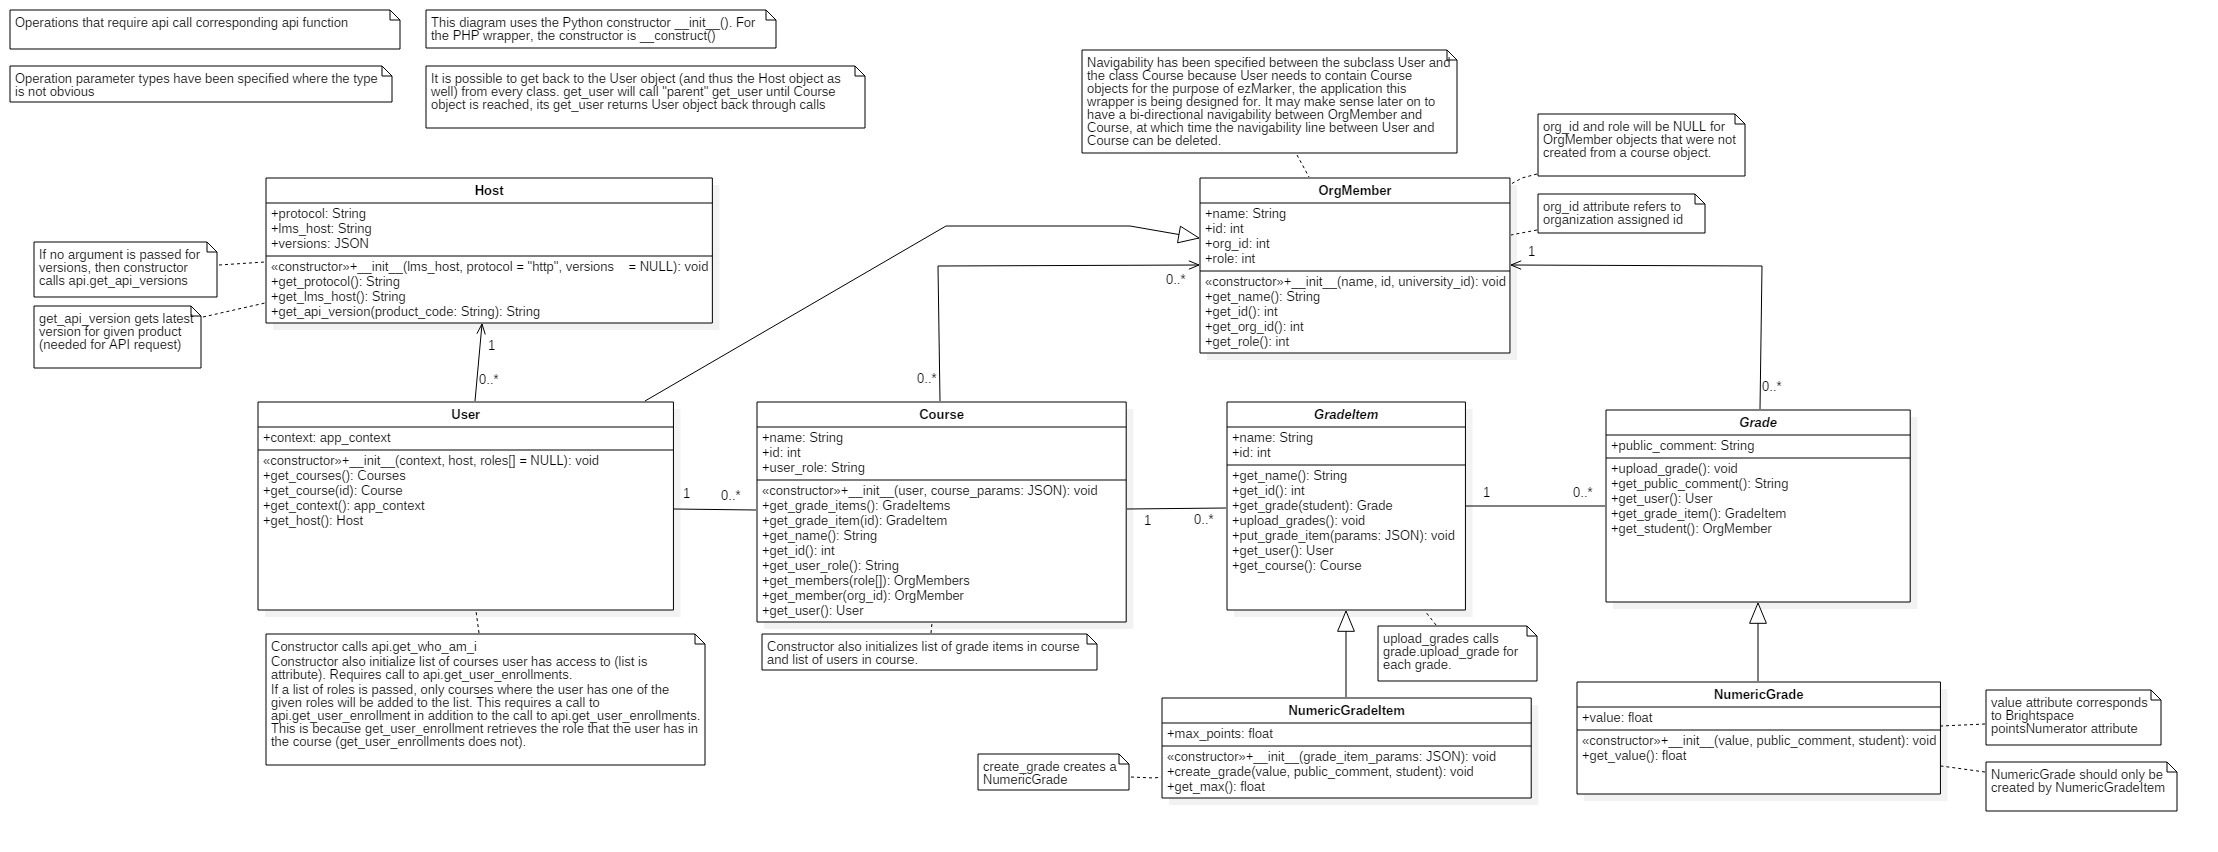
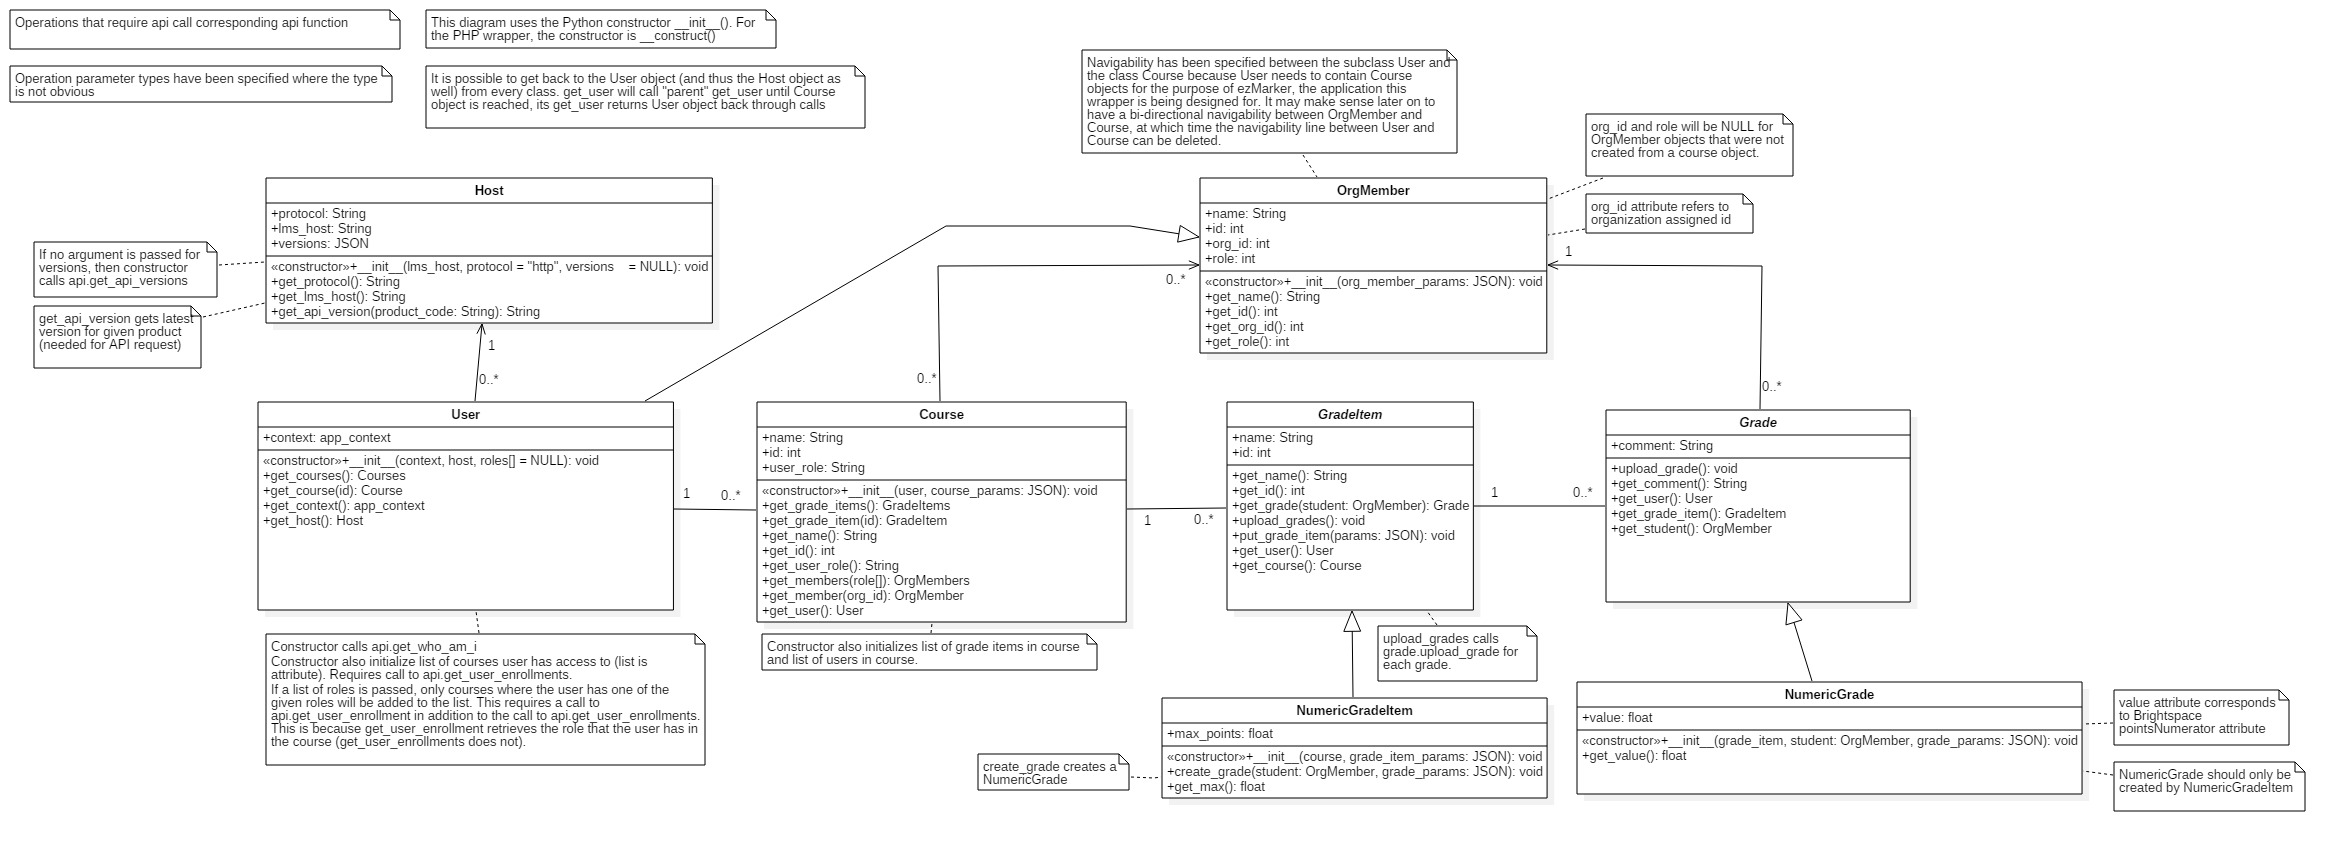
made all constructors take JSON params, added missing objects to constructors, rename public_comment to comment. Specified grade file format, revised detailed design, added params of pages

diff --git a/python/templates/design.html b/python/templates/design.html
@@ -41,10 +41,18 @@
 
     <h2>User Interface Design</h2>
     <p>This section describes the front-end of ezMarker. See <a href="#JSON">JSON Specifications</a> for the design of the JSON objects.</p>
+    
+        <b>Additional Notes:</b>
+    <ul>
+        <li>User will be redirected back to login if they are missing credentials at any point</li>
+        <li>User will be notified if they do not have permission to carry out their requested action</li>
+    </ul>
+    
     <h3>Login Page</h3>
     <p>Brightspace takes care of generating the page and handling input.</p>
-    <h3>Course List Page</h3>
+    <h3>Course List Page(User JSON)</h3>
     <p> This page has the list of courses and grade items the user has access to modify.</p>
+    <p>User will be notified if they do not have permission to set grades for any courses.</p>
     <img class="prototype-img" src="../static/img/course_list.png" />
     <table border="1">
         <col width="200">
@@ -66,7 +74,7 @@
             <td>Redirects user to upload grade page for the grade item</td>
         </tr>
     </table>
-    <h3>Upload Grade Page</h3>
+    <h3>Upload Grade Page(User JSON)</h3>
     <img class="prototype-img" src="../static/img/upload_grade.png">
     <table border="1">
         <col width="200">
@@ -153,7 +161,7 @@
             <td>Allows user to enter a numeric value</td>
         </tr>
     </table>
-    <h3>Report Page</h3>
+    <h3>Report Page(Grades JSON, Grade Error JSON)</h3>
 
     <p>Reports which students' grades were not set successfully.</p>
 
@@ -212,31 +220,29 @@
         <li>User has to return to ezMarker root in order to login again</li>
     </ol>
 
-    <h4> modify_grade_max(GradeItem, max)</h4>
+    <h4> modify_grade_max(grade_item_id, max)</h4>
     <ol>
         <li>Checks that max is greater than or equal to 0</li>
         <li>If valid, grade item total is updated</li>
-
     </ol>
 
-    <h4>set_grades(students and grades JSON, GradeItem)</h4>
+    <h4>set_grades(Grades JSON, grade_item_id)</h4>
     <ol>
         <li>Assumes that error checking has already been done</li>
         <li>Creates grade objects from JSON</li>
-        <li>Searches for student in course to associate with grade</li>
         <li>Uploads grades</li>
         <li>Tracks exceptions from Brightspace API wrapper in JSON</li>
-        <li>Remove grades from grade list that caused exception</li>
-        <li>Returns JSON of errors/warnings (if applicable)</li>
+        <li>Remove grades from grade list and students and grades JSON that caused exception</li>
+        <li>Redirects to Report page, passes JSON of grades and students, JSON of errors/warnings (if applicable)</li>
     </ol>
 
-    <h4>parse_file(file)</h4>
+    <h4>parse_file()</h4>
     <ol>
         <li>Parses uploaded file</li>
         <li>Creates and returns JSON with student and grade information</li>
     </ol>
 
-    <h4>error_checking(JSON, GradeItem)</h4>
+    <h4>error_checking(Grades JSON, grade_item_id)</h4>
     <ol>
         <li>Checks grade values in JSON</li>
         <li>If grade value > max grade, add item to JSON warning list specifying grade, student, and msg</li>
@@ -250,9 +256,9 @@
 
     <h4>User JSON (used in <i>login</i> controller, <i>Available Courses</i> and <i>Grade Item</i> pages)</h4>
 
-    <h4>Grades JSON (used in <i>parse_grade</i> and <i>set_grades</i> functions, <i>Grade Item</i> page)</h4>
+    <h4>Grades JSON (used in <i>parse_grade</i> function and <i>set_grades</i> controller, <i>Grade Item</i> and <i>Report</i> pages)</h4>
 
-    <h4>Grade Error JSON (used in <i>error_checking</i> and <i>set_grades</i> functions, <i>Grade Item</i> and <i>Report</i> pages)</h4>
+    <h4>Grade Error JSON (used in <i>error_checking</i> function and <i>set_grades</i> controller, <i>Grade Item</i> and <i>Report</i> pages)</h4>
 
     <h3>HTTP Status Codes</h3>
 
@@ -265,6 +271,9 @@
     <p>400 - Bad Request</p>
     <p>403 - Forbidden</p>
     <p>404 - Not Found</p>
+    
+    <h3>Grade File Format</h3>
+    <p>The grade file is a csv with the format <b>student_name</b>, <b>mls_id</b>, <b>grade</b>, <b>comment</b></p>
 
     <h2>Project Structure</h2>
     <h3>Python Structure</h3>
@@ -338,6 +347,7 @@
     <p>- Revised function descriptions</p>
     <p>- Added HTTP Status Codes section</p>
     <p>- Added JSON Specifications section</p>
+    <p>- Specified grade file format</p>
     <p>Authors: Sarah Johnston, Xiang Ke, Weibin Ma, Troy Nechanicky, Michelle Wong</p>
     <p>SQA: </p>
 </body>

diff --git a/python/templates/design_wrapper.html b/python/templates/design_wrapper.html
@@ -66,9 +66,10 @@
     <p>Authors: Troy Nechanicky</p>
     <p>SQA: Harold Hodgins, Yi Ling Pang</p>
     <h3 id="toc_exclude">Version 2.0 - xx/xx/2017</h3>
-    <p>-Added PHP specific information</p>
+    <p>- Added PHP specific information</p>
     <p>- Made User subclass of OrgMember</p>
     <p>- Renamed some attributes to match Brightspace naming</p>
+    <p>- Made contructors all take JSON objects</p>
     <p>- Added additional notes</p>
     <p>- Added Additional Comments sections</p>
     <p>- Specified error handling</p>
